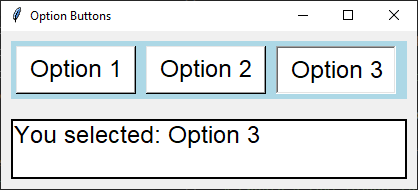
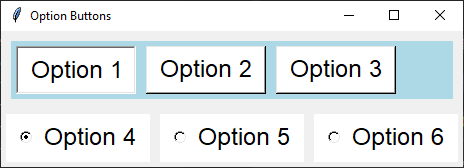
radio

diff --git a/docs/tk_widgets/python_radiobutton/tk_radio_button_simple.py b/docs/tk_widgets/python_radiobutton/tk_radio_button_simple.py
@@ -1,0 +1,44 @@
+import tkinter as tk
+from tkinter import font
+
+
+# Create the main window
+root = tk.Tk()
+root.title("Option Buttons")
+
+# Create a frame with a background color
+frame = tk.Frame(root, bg="light blue")
+frame.pack(padx=10, pady=10, fill="both", expand=True)
+
+# Define a font style
+fontStyle = font.Font(family="Lucida Grande", size=18)
+
+# Create a StringVar to hold the selected option
+option_grp1_var = tk.StringVar(value=None)  # No default value
+
+# Define the options
+options = ["Option 1", "Option 2", "Option 3"]
+
+# Create and pack the radio buttons
+for option in options:
+    button = tk.Radiobutton(frame, text=option, value=option, variable=option_grp1_var,
+                            bg="white", fg="black", font=fontStyle, indicatoron=0, padx=10, pady=5)
+    button.pack(side="left", padx=5, pady=5)
+option_grp1_var.set("Option 1")
+
+
+# Create a StringVar to hold the selected option
+option_grp2_var = tk.StringVar(value=None)  # No default value
+
+# Define the options
+options = ["Option 4", "Option 5", "Option 6"]
+
+# Create and pack the radio buttons
+for option in options:
+    button = tk.Radiobutton(root, text=option, value=option, variable=option_grp2_var,
+                            bg="white", fg="black", font=fontStyle, indicatoron=1, padx=10, pady=5)
+    button.pack(side="left", padx=5, pady=5)
+option_grp2_var.set("Option 4")
+
+# Run the main event loop
+root.mainloop()

diff --git a/docs/tk_widget_interactions/tk_radiobutton.rst b/docs/tk_widget_interactions/tk_radiobutton.rst
@@ -17,6 +17,7 @@ Usage
     | parent is the window or frame object.
     | Options can be passed as parameters separated by commas.
 
+
 ----
 
 Using radio buttons
@@ -25,13 +26,22 @@ Using radio buttons
 .. image:: images/radio_buttons.png
     :scale: 100%
 
-| This code create one group of radio buttons in a frame and a second group in root window below the frame.
-| To group radio buttons together set the variable option to be the same for each widget. e.g. ``variable=option_grp1_var``.
-| All radio buttons in the same group should share this variable to ensure only one can be selected at a time.
-| To preselect the first radio button in each group use: ``option_grp1_var.set("Option 1")`` and ``option_grp2_var.set("Option 4")`
+This code demonstrates the use of option buttons (radio buttons) and a text widget to display the selected option.
 
-| The `indicatoron` option is set to `0` to make the radio buttons look like regular buttons.
-| The `indicatoron` option is set to `1` to make the radio buttons look like radio buttons.
+1. **Frame Creation**:
+   - A frame with a light blue background is created to hold the radio buttons.
+
+2. **Option Variable**:
+   - A `StringVar` is created to hold the value of the selected option.
+   - Initially, no default value is set.
+
+3. **Radio Buttons**:
+   - Three radio buttons are created for the options "Option 1", "Option 2", and "Option 3".
+   - The `indicatoron` option is set to `0` to make the radio buttons look like regular buttons.
+   - The `display_option` function is called when a button is selected, updating the text widget with the selected option.
+
+4. **Text Widget**:
+   - A text widget is created to display the selected option.
 
 
 .. code-block:: python
@@ -39,6 +49,10 @@ Using radio buttons
     import tkinter as tk
     from tkinter import font
 
+    def display_option():
+        selected_option = option_var.get()
+        text_widget.delete(1.0, 'end')
+        text_widget.insert(tk.END, f"You selected: {selected_option}")
 
     # Create the main window
     root = tk.Tk()
@@ -52,36 +66,25 @@ Using radio buttons
     fontStyle = font.Font(family="Lucida Grande", size=18)
 
     # Create a StringVar to hold the selected option
-    option_grp1_var = tk.StringVar(value=None)  # No default value
+    option_var = tk.StringVar(value=None)  # No default value
 
     # Define the options
     options = ["Option 1", "Option 2", "Option 3"]
 
     # Create and pack the radio buttons
     for option in options:
-        button = tk.Radiobutton(frame, text=option, value=option, variable=option_grp1_var,
-                                bg="white", fg="black", font=fontStyle, indicatoron=0, padx=10, pady=5)
+        button = tk.Radiobutton(frame, text=option, variable=option_var, value=option,
+                                 command=display_option, bg="white", fg="black",
+                                font=fontStyle, indicatoron=0, padx=10, pady=5)
         button.pack(side="left", padx=5, pady=5)
-    option_grp1_var.set("Option 1")
 
-
-    # Create a StringVar to hold the selected option
-    option_grp2_var = tk.StringVar(value=None)  # No default value
-
-    # Define the options
-    options = ["Option 4", "Option 5", "Option 6"]
-
-    # Create and pack the radio buttons
-    for option in options:
-        button = tk.Radiobutton(root, text=option, value=option, variable=option_grp2_var,
-                                bg="white", fg="black", font=fontStyle, indicatoron=1, padx=10, pady=5)
-        button.pack(side="left", padx=5, pady=5)
-    option_grp2_var.set("Option 4")
+    # Create a text widget to display the selected option
+    text_widget = tk.Text(root, height=2, width=30, bg="white", fg="black",
+                            font=fontStyle, bd=2, relief="solid")
+    text_widget.pack(padx=10, pady=10)
 
     # Run the main event loop
     root.mainloop()
-
-
 
 
 ----
